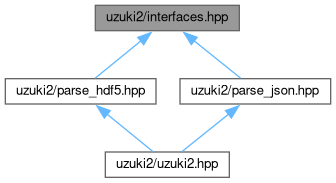
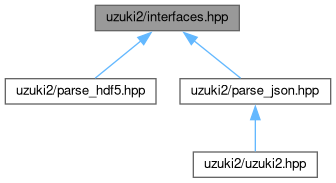
Deploying to gh-pages from @ ArtifactDB/uzuki2@c26110f08d7ca6aabae8a091ab9c81938ff6c638 🚀

diff --git a/docs/uzuki2_8hpp.html b/docs/uzuki2_8hpp.html
@@ -83,37 +83,32 @@ $(function() {
 
 <p>Umbrella header for the <b><a class="el" href="namespaceuzuki2.html" title="Parse an R list from a HDF5 or JSON file.">uzuki2</a></b> library.  
 <a href="#details">More...</a></p>
-<div class="textblock"><code>#include &quot;<a class="el" href="parse__hdf5_8hpp_source.html">parse_hdf5.hpp</a>&quot;</code><br />
-<code>#include &quot;<a class="el" href="parse__json_8hpp_source.html">parse_json.hpp</a>&quot;</code><br />
+<div class="textblock"><code>#include &quot;<a class="el" href="parse__json_8hpp_source.html">parse_json.hpp</a>&quot;</code><br />
 </div><div class="textblock"><div class="dynheader">
 Include dependency graph for uzuki2.hpp:</div>
 <div class="dyncontent">
 <div class="center"><img src="uzuki2_8hpp__incl.png" border="0" usemap="#auzuki2_2uzuki2_8hpp" alt=""/></div>
 <map name="auzuki2_2uzuki2_8hpp" id="auzuki2_2uzuki2_8hpp">
-<area shape="rect" title="Umbrella header for the uzuki2 library." alt="" coords="821,5,945,31"/>
-<area shape="rect" href="parse__hdf5_8hpp.html" title="Parsing methods for HDF5 files." alt="" coords="514,79,625,104"/>
-<area shape="rect" href="parse__json_8hpp.html" title="Parsing methods for JSON files." alt="" coords="1201,79,1311,104"/>
-<area shape="rect" title=" " alt="" coords="421,225,489,251"/>
-<area shape="rect" title=" " alt="" coords="513,225,572,251"/>
-<area shape="rect" title=" " alt="" coords="633,152,693,177"/>
-<area shape="rect" title=" " alt="" coords="597,225,651,251"/>
-<area shape="rect" title=" " alt="" coords="5,152,67,177"/>
-<area shape="rect" title=" " alt="" coords="717,152,795,177"/>
-<area shape="rect" title=" " alt="" coords="204,225,265,251"/>
-<area shape="rect" title=" " alt="" coords="820,152,924,177"/>
-<area shape="rect" title=" " alt="" coords="141,152,213,177"/>
-<area shape="rect" href="interfaces_8hpp.html" title="Defines the interfaces to use in HDF5 parsing." alt="" coords="403,152,506,177"/>
-<area shape="rect" title=" " alt="" coords="948,152,1039,177"/>
-<area shape="rect" title=" " alt="" coords="1063,152,1134,177"/>
-<area shape="rect" title=" " alt="" coords="237,152,328,177"/>
-<area shape="rect" title=" " alt="" coords="1260,152,1319,177"/>
-<area shape="rect" title=" " alt="" coords="1343,152,1454,177"/>
-<area shape="rect" title=" " alt="" coords="1479,152,1561,177"/>
-<area shape="rect" title=" " alt="" coords="1585,152,1724,177"/>
-<area shape="rect" title=" " alt="" coords="1749,152,1937,177"/>
-<area shape="rect" title=" " alt="" coords="1961,152,2162,177"/>
-<area shape="rect" title=" " alt="" coords="2187,152,2331,177"/>
-<area shape="rect" title=" " alt="" coords="2355,152,2464,177"/>
+<area shape="rect" title="Umbrella header for the uzuki2 library." alt="" coords="728,5,852,31"/>
+<area shape="rect" href="parse__json_8hpp.html" title="Parsing methods for JSON files." alt="" coords="735,79,845,104"/>
+<area shape="rect" title=" " alt="" coords="5,225,73,251"/>
+<area shape="rect" title=" " alt="" coords="98,225,157,251"/>
+<area shape="rect" title=" " alt="" coords="332,152,392,177"/>
+<area shape="rect" title=" " alt="" coords="267,225,321,251"/>
+<area shape="rect" title=" " alt="" coords="416,152,495,177"/>
+<area shape="rect" title=" " alt="" coords="519,152,578,177"/>
+<area shape="rect" title=" " alt="" coords="603,152,713,177"/>
+<area shape="rect" title=" " alt="" coords="738,152,842,177"/>
+<area shape="rect" title=" " alt="" coords="866,152,949,177"/>
+<area shape="rect" title=" " alt="" coords="973,152,1111,177"/>
+<area shape="rect" title=" " alt="" coords="1136,152,1324,177"/>
+<area shape="rect" title=" " alt="" coords="1348,152,1549,177"/>
+<area shape="rect" title=" " alt="" coords="1574,152,1718,177"/>
+<area shape="rect" href="interfaces_8hpp.html" title="Defines the interfaces to use in HDF5 parsing." alt="" coords="153,152,256,177"/>
+<area shape="rect" title=" " alt="" coords="1742,152,1833,177"/>
+<area shape="rect" title=" " alt="" coords="1857,152,1928,177"/>
+<area shape="rect" title=" " alt="" coords="1953,152,2062,177"/>
+<area shape="rect" title=" " alt="" coords="181,225,242,251"/>
 </map>
 </div>
 </div>

diff --git a/docs/uzuki2_8hpp_source.html b/docs/uzuki2_8hpp_source.html
@@ -81,10 +81,12 @@ $(function() {
 <a href="uzuki2_8hpp.html">Go to the documentation of this file.</a><div class="fragment"><div class="line"><a id="l00001" name="l00001"></a><span class="lineno">    1</span><span class="preprocessor">#ifndef UZUKI2_UZUKI2_HPP</span></div>
 <div class="line"><a id="l00002" name="l00002"></a><span class="lineno">    2</span><span class="preprocessor">#define UZUKI2_UZUKI2_HPP</span></div>
 <div class="line"><a id="l00003" name="l00003"></a><span class="lineno">    3</span> </div>
-<div class="line"><a id="l00014" name="l00014"></a><span class="lineno">   14</span><span class="preprocessor">#include &quot;<a class="code" href="parse__hdf5_8hpp.html">parse_hdf5.hpp</a>&quot;</span></div>
-<div class="line"><a id="l00015" name="l00015"></a><span class="lineno">   15</span><span class="preprocessor">#include &quot;<a class="code" href="parse__json_8hpp.html">parse_json.hpp</a>&quot;</span></div>
-<div class="line"><a id="l00016" name="l00016"></a><span class="lineno">   16</span> </div>
-<div class="line"><a id="l00017" name="l00017"></a><span class="lineno">   17</span><span class="preprocessor">#endif</span></div>
+<div class="line"><a id="l00014" name="l00014"></a><span class="lineno">   14</span><span class="preprocessor">#if __has_include(&quot;H5Cpp.h&quot;</span>)</div>
+<div class="line"><a id="l00015" name="l00015"></a><span class="lineno">   15</span><span class="preprocessor">#include &quot;<a class="code" href="parse__hdf5_8hpp.html">parse_hdf5.hpp</a>&quot;</span></div>
+<div class="line"><a id="l00016" name="l00016"></a><span class="lineno">   16</span><span class="preprocessor">#endif</span></div>
+<div class="line"><a id="l00017" name="l00017"></a><span class="lineno">   17</span><span class="preprocessor">#include &quot;<a class="code" href="parse__json_8hpp.html">parse_json.hpp</a>&quot;</span></div>
+<div class="line"><a id="l00018" name="l00018"></a><span class="lineno">   18</span> </div>
+<div class="line"><a id="l00019" name="l00019"></a><span class="lineno">   19</span><span class="preprocessor">#endif</span></div>
 <div class="ttc" id="aparse__hdf5_8hpp_html"><div class="ttname"><a href="parse__hdf5_8hpp.html">parse_hdf5.hpp</a></div><div class="ttdoc">Parsing methods for HDF5 files.</div></div>
 <div class="ttc" id="aparse__json_8hpp_html"><div class="ttname"><a href="parse__json_8hpp.html">parse_json.hpp</a></div><div class="ttdoc">Parsing methods for JSON files.</div></div>
 </div><!-- fragment --></div><!-- contents -->

diff --git a/docs/parse__hdf5_8hpp.html b/docs/parse__hdf5_8hpp.html
@@ -118,15 +118,6 @@ Include dependency graph for parse_hdf5.hpp:</div>
 <area shape="rect" title=" " alt="" coords="1053,79,1143,104"/>
 </map>
 </div>
-</div><div class="textblock"><div class="dynheader">
-This graph shows which files directly or indirectly include this file:</div>
-<div class="dyncontent">
-<div class="center"><img src="parse__hdf5_8hpp__dep__incl.png" border="0" usemap="#auzuki2_2parse__hdf5_8hppdep" alt=""/></div>
-<map name="auzuki2_2parse__hdf5_8hppdep" id="auzuki2_2parse__hdf5_8hppdep">
-<area shape="rect" title="Parsing methods for HDF5 files." alt="" coords="5,5,156,31"/>
-<area shape="rect" href="uzuki2_8hpp.html" title="Umbrella header for the uzuki2 library." alt="" coords="19,79,143,104"/>
-</map>
-</div>
 </div>
 <p><a href="parse__hdf5_8hpp_source.html">Go to the source code of this file.</a></p>
 <table class="memberdecls">

diff --git a/docs/interfaces_8hpp.html b/docs/interfaces_8hpp.html
@@ -110,7 +110,7 @@ This graph shows which files directly or indirectly include this file:</div>
 <area shape="rect" title="Defines the interfaces to use in HDF5 parsing." alt="" coords="95,5,239,31"/>
 <area shape="rect" href="parse__hdf5_8hpp.html" title="Parsing methods for HDF5 files." alt="" coords="5,79,156,104"/>
 <area shape="rect" href="parse__json_8hpp.html" title="Parsing methods for JSON files." alt="" coords="180,79,331,104"/>
-<area shape="rect" href="uzuki2_8hpp.html" title="Umbrella header for the uzuki2 library." alt="" coords="105,152,229,177"/>
+<area shape="rect" href="uzuki2_8hpp.html" title="Umbrella header for the uzuki2 library." alt="" coords="193,152,317,177"/>
 </map>
 </div>
 </div>
